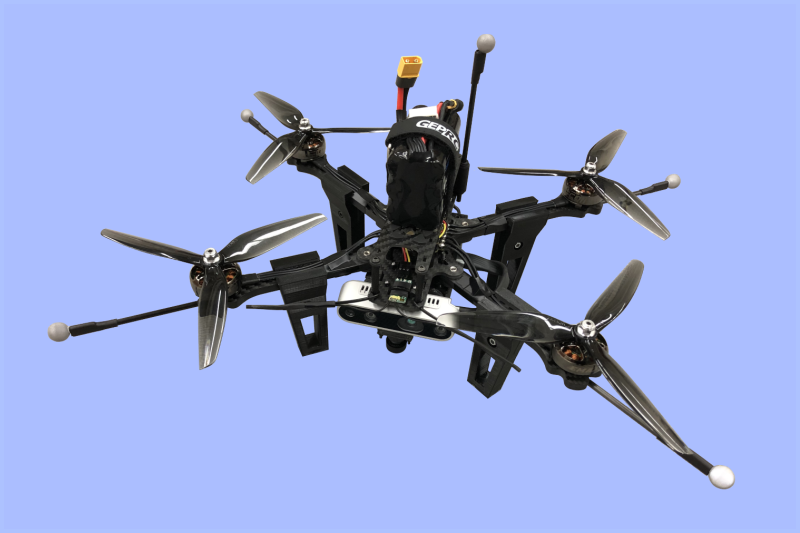
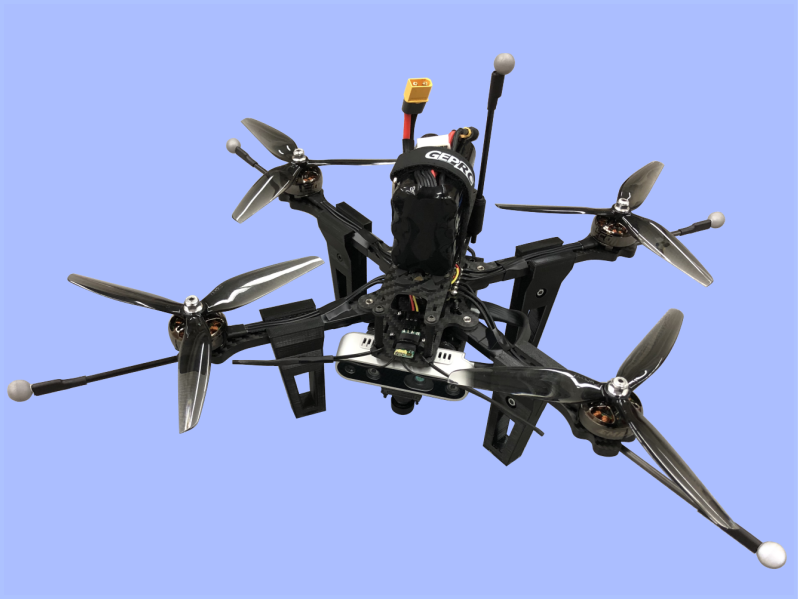
project work

Changed region(s): [[0.0, 0.06, 1.0, 0.9606]]

diff --git a/_projects/1_project.md b/_projects/1_project.md
@@ -2,17 +2,13 @@
 layout: page
 title: VIO drone
 description: VIO quadcopter for FOV-constrained landing.
-img: assets/img/vioquad_blue_background.png
+img: assets/img/full_quad.jpg
 importance: 1
 category:
 related_publications: walters2023vision-based
 ---
 
-Every project has a beautiful feature showcase page.
-It's easy to include images in a flexible 3-column grid format.
-Make your photos 1/3, 2/3, or full width.
-
-To give your project a background in the portfolio page, just add the img tag to the front matter like so:
+This quadcopter was designed to use visual-inertial odometry (VIO) to estimate its pose, and the AprilTag algorithm to estimate landing pad location. 
 
     ---
     layout: page

diff --git a/_projects/2_project.md b/_projects/2_project.md
@@ -2,7 +2,7 @@
 layout: page
 title: first robot
 description: A differential drive robot that navigates using a camera
-img: assets/img/3.jpg
+img: assets/img/SLAM_robot.jpg
 importance: 2
 category:
 ---
